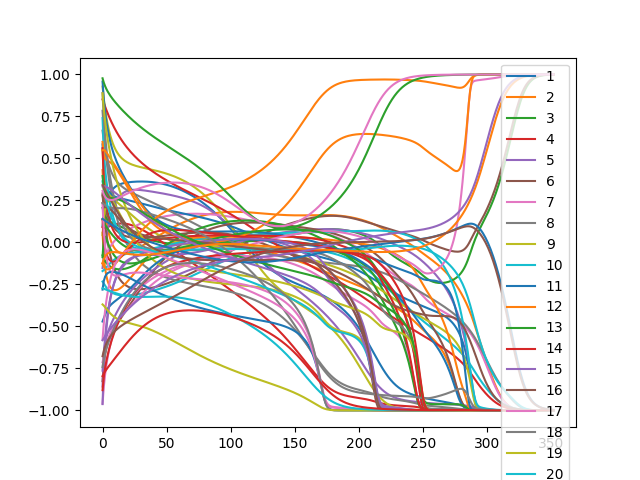
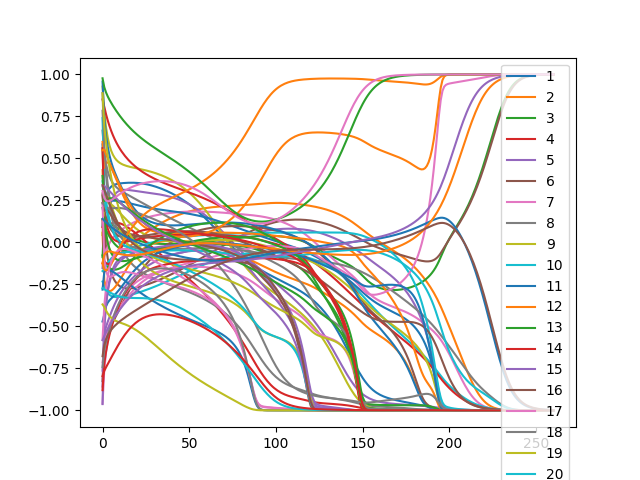
other tests

diff --git a/pbits.py b/pbits.py
@@ -1,0 +1,90 @@
+import numpy as np
+from matplotlib import pyplot as plt
+
+# returns a vector of specified size
+# where each element has p probability of being a 1
+# def ber_stream(size, p):
+#     return np.random.binomial(size=size, n=1, p=p)
+
+
+# p probability of returning a True, else False
+def ber(p):
+    return p > np.random.uniform(0, 1)
+
+
+def minus(a, b):
+    return a or not b
+
+
+def add(a, b):
+    return np.random.choice(1, (a, b))
+
+
+def mul(a, b):
+    return a or b
+
+
+def moving_average(x, w):
+    return np.convolve(x, np.ones(w), "valid") / w
+
+
+# TODO implement ode dy/dx = target - y
+STREAM_LENGTH = 100000
+target = 0.8
+x = 0
+y = 0
+history = []
+history_x = []
+window_size = 1000  # Window size for rolling average
+
+# x(0) = 1
+# y(0) = 1
+# x' = - x - y + 0.6
+# y' = - x - y + 0.6
+# --> 0.3, 0.3
+
+0.6111
+
+0000
+0101
+
+0001
+
+# "1 + 0"  -> 0 + 0.5 -> 0.25 -> 0.5 but should be 1
+
+1110 (-0.5)
+
+
+x_0 = 00001000000000000000000000000000000
+
+x_1 = 0010101010100101
+
+x_2 = 110101010010101
+
+and (x_0 \/ x_1 \/ x_2) = 0000000000010000001000000000
+
+for _ in range(STREAM_LENGTH):
+    dx = minus(minus(ber(0.6), x), y)
+    dy = minus(minus(ber(0.6), x), y)
+    x = add(x, dx) if ber(0.01) else x
+    y = add(y, dy) if ber(0.01) else y
+    history_x.append(x)
+    history.append(y)
+
+# Convert boolean values to integers and calculate rolling average
+history_int = np.array(history, dtype=int)
+rolling_avg = np.convolve(history_int, np.ones(window_size) / window_size, mode="valid")
+rolling_avg_x = np.convolve(
+    np.array(history_x, dtype=int), np.ones(window_size) / window_size, mode="valid"
+)
+
+print(history)
+
+# Plotting
+plt.plot(rolling_avg)
+plt.plot(rolling_avg_x)
+plt.title("Rolling Average of History")
+plt.xlabel("Iteration")
+plt.ylabel("Average Value")
+plt.ylim(-0.1, 1.1)
+plt.savefig("fig.jpg")

diff --git a/ode_sat.py b/ode_sat.py
@@ -127,7 +127,7 @@ class OdeSat:
 def test_stiffness(clauses, time_limit=1):
     res = 10
     while res < 10000000:
-        print(res)
+        print("res:", res)
         try:
             np.random.seed(0)
             ode = OdeSat(clauses=clauses, resolution=res, time=time_limit)
@@ -144,14 +144,15 @@ def test_stiffness(clauses, time_limit=1):
 if __name__ == "__main__":
     from pysat.formula import CNF
 
-    f1 = CNF(from_file="test_files/factor8.cnf")
-    result_name = "factor8"
+    f1 = CNF(from_file="test_files/factor21.cnf")
+    result_name = "factor21"
 
-    res = test_stiffness(f1.clauses)
+    time = 8
+    res = test_stiffness(f1.clauses, 8)
     print("resolution", res)
 
     np.random.seed(0)
-    ode_sat = OdeSat(clauses=f1.clauses, resolution=res, time=1)
+    ode_sat = OdeSat(clauses=f1.clauses, resolution=res, time=8)
     sTs, aTs = ode_sat.integrate()
 
     last = sTs[-1]
@@ -165,5 +166,13 @@ if __name__ == "__main__":
 
     plt.clf()
     vs = [ode_sat.V(s, a) for s, a in zip(sTs, aTs)]
+    k_vals = np.array(
+        [ode_sat.K(s, m) for m in range(ode_sat.M) for s, a in zip(sTs, aTs)]
+    )
+
+    vs_no_a = k_vals @ k_vals
+    print("Final V:", vs[-1])
     plt.plot(vs)
     plt.savefig(f"out/{result_name}_v.png")
+    plt.plot(vs_no_a)
+    plt.savefig(f"out/{result_name}_v_no_a.png")
